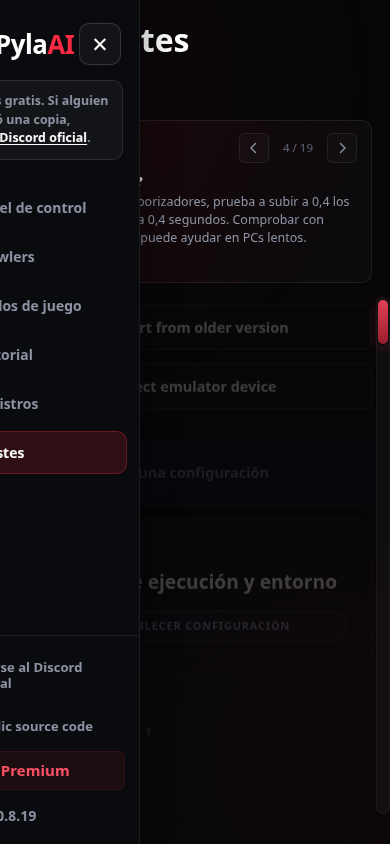
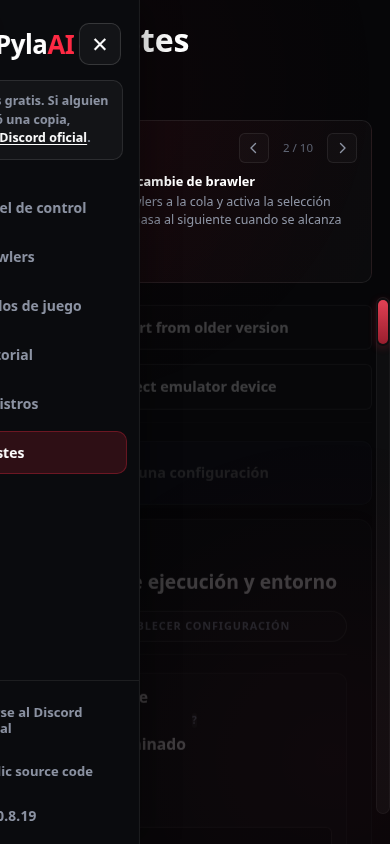
Retira anúncios de assinatura da edição local sem alterar permissões

Changed region(s): [[0.3692, 0.1848, 0.8923, 0.3081], [0.0, 0.7701, 0.2462, 0.9242], [0.3692, 0.8626, 0.4615, 0.8934]]

diff --git a/project/static/js/app.js b/project/static/js/app.js
@@ -42,19 +42,10 @@ const PYLA_TIPS = [
     { id: "low-fps", title: "Running below 5 FPS?", text: "Try raising any timers below 0.4 seconds to 0.4 in Settings → Timers. Less frequent checks can help on slower PCs.", view: "settings", setting: "wall_detection" },
     { id: "debug-view", title: "See what Pyla sees", text: "Enable Debug View in Settings to watch the frames Pyla is processing. It helps when you're figuring out why the bot is stuck or missing something.", view: "settings", setting: "debug_view" },
     { id: "webhook", title: "Get updates without watching", text: "Add a Webhook URL in Settings → Webhook, then choose notifications for stuck runs, completed targets, or every few matches or minutes.", view: "settings", setting: "webhook_url" },
-    { id: "unsupported-modes", title: "Pick a supported mode", text: "Solo Showdown and Duels aren't supported in the free edition. Check your playstyle's gamemodes before starting a run.", view: "playstyles" },
+    { id: "unsupported-modes", title: "Pick a supported mode", text: "Solo Showdown and Duels aren't supported in this build. Check your playstyle's gamemodes before starting a run.", view: "playstyles" },
     { id: "game-language", title: "Keep Brawl Stars in English", text: "Set Brawl Stars' language to English so Pyla can read the game correctly. You can still use any language for Pyla's interface." },
     { id: "mumu", title: "Try MuMu for better performance", text: "MuMu usually gives the best performance with Pyla. If your current emulator feels slow, it's worth trying." },
     { id: "ldplayer-gas", title: "Walking into the gas on LDPlayer?", text: "Try switching to MuMu if Pyla keeps moving into Showdown gas on LDPlayer." },
-    { id: "boost-premium", audience: "free", title: "Get Premium with a server boost", text: "Boosting the official Discord while the server is below Level 3 gives you Premium access while your boost remains active. Check Discord for current details.", link: "discord" },
-    { id: "early-access-pathfinding", audience: "free", title: "Find a way around obstacles", text: "Early Access v1.1.0 plans routes around walls and water, avoids poison gas, and looks for a reachable position when its destination is blocked.", link: "early-access" },
-    { id: "early-access-bush-camper", audience: "free", title: "Try Showdown Bush Camper", text: "Early Access v1.1.0 includes Showdown Bush Camper. It moves between bushes towards the centre, keeps moving while hiding, and retreats or defends itself when enemies approach. Check its supported gamemodes.", link: "early-access" },
-    { id: "early-access-emulator-test", audience: "free", title: "Find out what's causing lag", text: "Early Access v1.1.0 adds Test emulator delay on the dashboard. Measure emulator delay, capture FPS and bot processing time to see where a slowdown comes from.", link: "early-access" },
-    { id: "weekly-free-access", audience: "free", title: "Try Early Access free each week", text: "Try Early Access free for one day each week, with every Premium feature on the newest build. The day can change; check the official Discord for this week's announcement.", link: "discord" },
-    { id: "premium-discord", audience: "free", title: "Edit your queue from Discord", text: "Stable v1.0 Premium and Early Access include /add_to_queue, /remove_from_queue and /clear_queue, so you can edit your queue remotely while Pyla is stopped.", link: "pricing" },
-    { id: "premium-instances", audience: "free", title: "Run more than one account", text: "Run multiple emulator instances at once with Stable v1.0 Premium or Early Access, each with its own Pyla profile and queue.", link: "pricing" },
-    { id: "premium-aiming", audience: "free", title: "Try predictive aiming", text: "Stable v1.0 Standard and Premium, or Early Access, include Aimbot playstyles that lead moving targets.", link: "pricing" },
-    { id: "premium-api", audience: "free", title: "Sync your Brawl Stars stats", text: "With Stable v1.0 Premium or Early Access, add your Player Tag to sync trophies and win streaks through the Brawl Stars API. Use Push All to queue brawlers below your target.", link: "pricing" },
 ];
 const BRAWLER_RARITIES = {
     "Common": { order: 1, color: "#b8bec9" },
@@ -552,13 +543,12 @@ function renderDashboard() {
                 </section>
             </div>
 
-            <section class="panel profile-switcher-card premium-profile-preview">
+            <section class="panel profile-switcher-card">
                 <div class="profile-switcher-heading">
                     <div class="profile-heading-copy">
                         <p class="eyebrow">Profiles</p>
-                        <div class="profile-title-row"><h3 class="panel-title">One setup today, more with Premium</h3><span class="premium-badge-inline">Premium</span></div>
+                        <div class="profile-title-row"><h3 class="panel-title">Local profile</h3></div>
                     </div>
-                    <a class="btn btn-sm profile-add-btn premium-cta" href="https://pyla-ai.angelfirela.dev/premium" target="_blank" rel="noreferrer">Explore Premium</a>
                 </div>
                 <div class="profile-list premium-profile-list">
                     <div class="profile-entry is-active">
@@ -568,12 +558,6 @@ function renderDashboard() {
                         </div>
                         <span class="profile-active-label">Active</span>
                     </div>
-                    <button class="profile-entry premium-profile-locked premium-locked-action" type="button">
-                        <div class="profile-entry-main"><span class="profile-entry-name">Second emulator profile</span><span class="profile-entry-details">Separate queue, settings, history and runtime</span></div><span class="premium-profile-lock">Premium</span>
-                    </button>
-                    <button class="profile-entry premium-profile-locked premium-locked-action" type="button">
-                        <div class="profile-entry-main"><span class="profile-entry-name">Additional profile</span><span class="profile-entry-details">Run independent account configurations</span></div><span class="premium-profile-lock">Premium</span>
-                    </button>
                 </div>
             </section>
         </div>`;
@@ -670,9 +654,9 @@ function formatSettingValue(field, value) {
 function getPlayerPillState() {
     if (!state.bootstrap?.auth?.premium) {
         return {
-            className: "premium-locked",
-            title: "Premium Required",
-            detail: "Get premium to sync live stats from Brawl Stars API.",
+            className: "",
+            title: "Manual mode",
+            detail: "Enter queue values locally. Live player sync is not included in this build.",
         };
     }
 
@@ -732,7 +716,7 @@ function renderQueue() {
     const dynamicSortsLocked = !state.bootstrap?.auth?.premium;
     const targetHelp = `<span class="tooltip-anchor push-all-help" data-tooltip="Change this amount by editing Default Trophy Target in Settings." aria-label="How to change the Push All target">?</span>`;
     const pushAllButton = !state.bootstrap?.auth?.premium
-        ? `<div class="push-all-control"><button id="pushAllQueueLockedBtn" class="btn btn-locked premium-locked-action" type="button">${iconMarkup("queue")} Push All to ${defaultTarget} <span class="premium-lock-icon">🔒</span></button>${targetHelp}</div>`
+        ? ""
         : hasValidPlayerInfo
             ? `<div class="push-all-control"><button id="pushAllQueueBtn" class="btn" type="button">${iconMarkup("queue")} Push All to ${defaultTarget}</button>${targetHelp}</div>`
             : "";
@@ -761,10 +745,10 @@ function renderQueue() {
                             <input id="brawlerSearch" type="search" placeholder="Search by brawler name" value="${escapeHtml(state.brawlerSearch)}">
                         </label>
                         ${pushAllButton}
-                        <label class="input-group ${!state.bootstrap?.auth?.premium ? "disabled-premium" : ""}">
+                        ${state.bootstrap?.auth?.premium ? `                        <label class="input-group ${!state.bootstrap?.auth?.premium ? "disabled-premium" : ""}">
                             <span>Player Tag ${!state.bootstrap?.auth?.premium ? `<span class="premium-badge">Premium</span>` : ""}</span>
                             <input id="playerTagInput" type="text" placeholder="${!state.bootstrap?.auth?.premium ? "Locked - Premium Only" : "#PLAYER"}" value="${!state.bootstrap?.auth?.premium ? "" : escapeHtml(formatPlayerTagInput(state.bootstrap.settings.general.player_tag || ""))}" ${!state.bootstrap?.auth?.premium ? "disabled" : ""}>
-                        </label>
+                        </label>` : ""}
                     </div>
                     <div class="queue-toolbar-bottom">
                         <div class="toolbar-actions brawler-sort-actions">
@@ -774,9 +758,9 @@ function renderQueue() {
                                     <select id="brawlerSortSelect">
                                         <option value="alphabetical" ${state.brawlerSort === "alphabetical" ? "selected" : ""}>By name</option>
                                         <option value="rarity" ${state.brawlerSort === "rarity" ? "selected" : ""}>By rarity</option>
-                                        <option value="trophies" ${state.brawlerSort === "trophies" ? "selected" : ""}>${dynamicSortsLocked ? "🔒 " : ""}By trophies</option>
-                                        <option value="win_streak" ${state.brawlerSort === "win_streak" ? "selected" : ""}>${dynamicSortsLocked ? "🔒 " : ""}By win streak</option>
-                                        <option value="power_level" ${state.brawlerSort === "power_level" ? "selected" : ""}>${dynamicSortsLocked ? "🔒 " : ""}By power level</option>
+                                        ${dynamicSortsLocked ? "" : `<option value="trophies" ${state.brawlerSort === "trophies" ? "selected" : ""}>${dynamicSortsLocked ? "🔒 " : ""}By trophies</option>`}
+                                        ${dynamicSortsLocked ? "" : `<option value="win_streak" ${state.brawlerSort === "win_streak" ? "selected" : ""}>${dynamicSortsLocked ? "🔒 " : ""}By win streak</option>`}
+                                        ${dynamicSortsLocked ? "" : `<option value="power_level" ${state.brawlerSort === "power_level" ? "selected" : ""}>${dynamicSortsLocked ? "🔒 " : ""}By power level</option>`}
                                     </select>
                                     <button id="brawlerSortDirectionBtn" class="sort-direction-btn" type="button" title="${state.brawlerSortDirection === "asc" ? "Ascending — click for descending" : "Descending — click for ascending"}" aria-label="${state.brawlerSortDirection === "asc" ? "Sort descending" : "Sort ascending"}">
                                         ${state.brawlerSortDirection === "asc" ? "↑" : "↓"}
@@ -1889,6 +1873,9 @@ function renderSettingField(section, field, value) {
 }
 
 function shouldRenderSettingField(section, field) {
+    if (!state.bootstrap?.auth?.premium && ["player_tag", "advanced_debug_visuals", "recover_when_wrong_brawler_used"].includes(field.key)) {
+        return false;
+    }
     if (!field.visibleIf) {
         return true;
     }
@@ -3302,28 +3289,7 @@ function cssEscape(value) {
 
 
 function showPremiumModal() {
-    let modal = document.getElementById("premiumFeatureModal");
-    if (!modal) {
-        modal = document.createElement("div");
-        modal.id = "premiumFeatureModal";
-        modal.className = "modal-overlay";
-        modal.innerHTML = `
-            <div class="modal">
-                <div class="modal-header">
-                    <p class="eyebrow premium-copy">Premium Feature</p>
-                    <h3>Unlock more automation</h3>
-                    <p>Profiles, live player data, Push All and selected advanced controls are available in Pyla Premium. The public edition remains free and open-source.</p>
-                </div>
-                <div class="premium-modal-actions">
-                    <a class="btn btn-primary w-full premium-cta" href="https://pyla-ai.angelfirela.dev/premium" target="_blank" rel="noreferrer">Explore Premium</a>
-                    <button id="closePremiumModalBtn" class="btn w-full" type="button">Maybe later</button>
-                </div>
-            </div>`;
-        document.body.appendChild(modal);
-        document.getElementById("closePremiumModalBtn")?.addEventListener("click", () => modal.classList.add("hidden"));
-        modal.addEventListener("click", (event) => { if (event.target === modal) modal.classList.add("hidden"); });
-    }
-    modal.classList.remove("hidden");
+    showToast("This feature is not included in this local build.", "info");
 }
 
 async function refreshLogs() {

diff --git a/project/templates/index.html b/project/templates/index.html
@@ -28,7 +28,6 @@
                 <div class="sidebar-links" aria-label="PylaAI links">
                     <a id="sidebarDiscordLink" class="sidebar-link" href="#" target="_blank" rel="noreferrer" data-tooltip="Open the official Discord"><img src="/api/assets/support/discord_logo.png" alt=""><span>Join the Official Discord</span></a>
                     <a class="sidebar-link" href="https://github.com/PylaAI/PylaAI" target="_blank" rel="noreferrer" data-tooltip="Source code on GitHub"><img src="/api/assets/support/github.svg" alt=""><span>Public source code</span></a>
-                    <a id="sidebarPremiumLink" class="sidebar-link premium-link premium-cta" href="https://pyla-ai.angelfirela.dev/premium" target="_blank" rel="noreferrer" data-tooltip="Premium features"><span>Explore Premium</span></a>
                 </div>
                 <div id="sidebarVersion" class="sidebar-version">PylaAI Public</div>
             </div>

diff --git a/project/scripts/browser_audit.py b/project/scripts/browser_audit.py
@@ -25,6 +25,7 @@ with sync_playwright() as p:
     for view in ('dashboard','queue','playstyles','history','logs','settings'):
         page.locator(f'.nav-item[data-view="{view}"]').click()
         expect(page.locator(f'#view-{view}')).to_be_visible()
+        assert 'premium' not in page.locator('body').inner_text().lower()
         checks.append('navigation:'+view)
         page.screenshot(path=str(out/(view+'.png')),full_page=True)
     selector='input[data-setting-section="general"][data-setting-key="run_for_minutes"]'
@@ -51,13 +52,20 @@ with sync_playwright() as p:
     # Use the actual protected API to remove only the entry created by this check.
     response=page.evaluate("""async(name) => fetch('/api/queue/'+encodeURIComponent(name),{method:'DELETE',headers:{'X-Pyla-UI-Token':document.querySelector('meta[name="pyla-ui-token"]').content}}).then(r=>r.status)""",selected)
     assert response==200
+    page.evaluate('refreshRunningQueue()')
     page.locator('.nav-item[data-view="playstyles"]').click()
     assert page.locator('#playstyleLibrary').inner_text().strip()
     checks.append('playstyles:library')
     page.locator('.nav-item[data-view="dashboard"]').click()
-    page.locator('.premium-locked-action:visible').first.click()
-    expect(page.locator('#premiumFeatureModal')).to_be_visible()
-    checks.append('premium:existing-modal-kept')
+    assert page.locator('#premiumFeatureModal').count()==0
+    assert page.locator('a[href*="/premium"]').count()==0
+    assert page.evaluate('state.bootstrap.auth.premium') is False
+    assert page.evaluate('state.bootstrap.queue.length')==0
+    checks.append('local-edition:no-upsell-entitlement-unchanged')
+    for _ in range(page.evaluate('state.tips.length')):
+        assert 'premium' not in page.locator('#tipContent').inner_text().lower()
+        page.locator('#nextTipBtn').click()
+    checks.append('tips:no-subscription-promotion')
     page.reload(wait_until='domcontentloaded')
     page.wait_for_function('Boolean(state.bootstrap)')
     with page.expect_navigation(wait_until='domcontentloaded'):

diff --git a/project/scripts/smoke_windows_exe.py b/project/scripts/smoke_windows_exe.py
@@ -37,6 +37,10 @@ with log.open('w',encoding='utf-8') as output:
             if url:break
             time.sleep(.3)
         if not url:raise RuntimeError('Executable did not serve the UI within 90 seconds')
+        assert 'sidebarPremiumLink' not in html
+        with opener.open(url+'/static/js/app.js',timeout=10) as response:frontend=response.read().decode()
+        assert 'One setup today, more with Premium' not in frontend
+        assert 'Unlock more automation' not in frontend
         token=re.search(r'name="pyla-ui-token" content="([^"]+)"',html).group(1)
         request=urllib.request.Request(url+'/api/bootstrap',headers={'X-Pyla-UI-Token':token})
         with opener.open(request,timeout=10) as response:payload=json.load(response)
@@ -45,7 +49,7 @@ with log.open('w',encoding='utf-8') as output:
         request=urllib.request.Request(url+'/api/settings/general',data=b'{"max_fps":0}',headers={'X-Pyla-UI-Token':token,'Content-Type':'application/json'},method='PUT')
         try:opener.open(request,timeout=10);raise AssertionError('Invalid FPS was accepted')
         except urllib.error.HTTPError as error:assert error.code==400
-        print(json.dumps({'exe_started':True,'ui_html':True,'bootstrap':True,'invalid_fps_rejected':True,'game_automation_tested':False}))
+        print(json.dumps({'exe_started':True,'ui_html':True,'bootstrap':True,'invalid_fps_rejected':True,'promotion_links_removed':True,'game_automation_tested':False}))
     finally:
         process.terminate()
         try:process.wait(timeout=10)

diff --git a/project/docs/FUNCIONALIDADES.md b/project/docs/FUNCIONALIDADES.md
@@ -8,7 +8,7 @@
 | Histórico | CSV, resumo, sessões, gráficos, filtros por data/brawler e detalhes | Tela carregada e datas inválidas rejeitadas. Nenhuma partida real gerada; gráficos com histórico real e todas as combinações de filtros permanecem pendentes. |
 | Logs | Visualização, atualização e limpeza de buffer | API e tela carregadas; não é benchmark de sessões longas. |
 | Configurações | Geral, combate, temporização, depuração e webhooks; autosave, reset, importação de instalação antiga | Cinco seções e resets via API; autosave com recarga no navegador; validação numérica e sigilo das credenciais testados. Migração de cada versão antiga não testada. |
-| Navegação e visual | Seis telas, ícones, tema, tooltips, barras de rolagem, dicas, carrossel, menu responsivo | Seis telas e menu móvel exercitados; sem erro JavaScript e sem falha de assets locais na execução registrada. CSS/HTML/JS preservados. Nem cada animação, tooltip ou gesto recebeu asserção individual. |
+| Navegação e visual | Seis telas, ícones, tema, tooltips, barras de rolagem, dicas, carrossel, menu responsivo | Seis telas e menu móvel exercitados; sem erro JavaScript e sem falha de assets locais na execução registrada. Tema e CSS preservados; HTML/JS ajustados na R3 para retirar promoções. Nem cada animação, tooltip ou gesto recebeu asserção individual. |
 | Idiomas | Inglês, espanhol, francês, coreano e russo | Mudança para espanhol e recarga testadas. Qualidade de todas as traduções não revisada; português não implementado. |
 | Desktop | Janela pywebview, ícone, tamanho, console e fallback para navegador | Código preservado e build configurado. A abertura gráfica da janela no Windows não integra os testes Linux; consultar relatório Windows para smoke test headless. |
 | ADB/scrcpy | Descoberta de emuladores, scan profundo, captura, toque e reinício do jogo | Código presente. Nenhum dispositivo foi conectado durante esta auditoria. |
@@ -17,6 +17,6 @@
 | Depuração | Preview por memória compartilhada, overlays, clipes e logs de partidas | Implementação presente; captura/visualização/clipes exigem execução real e não foram testados. |
 | Discord | Bot opcional, autorização por ID, comandos de controle e screenshot | Negação sem ID autorizado testada com interação simulada. Comandos reais, conexão e permissões do bot não testados. |
 | Telegram/webhook | Notificações de status/evento e imagem | Credenciais mascaradas/preservadas/limpas na API; entrega real não testada, sem credenciais. |
-| Premium | Elementos promocionais, links externos, recursos visuais bloqueados | Modal existente verificado; estado premium continua falso. Multiprofile, estatísticas remotas e outros recursos comerciais ausentes não foram implementados nem desbloqueados. |
+| Premium | Elementos promocionais, links externos, recursos visuais bloqueados | Na R3, anúncios, modal de upgrade e cartões bloqueados foram removidos da interface; estado premium continua falso. Multiprofile, estatísticas remotas e outros recursos comerciais ausentes não foram implementados nem desbloqueados. |
 
 Os nomes de todas as rotas locais estão em `ROTAS-LOCAIS.json`. O inventário de funções/classes está em `MODULOS.md`/`INVENTARIO.json`. A presença de código não é apresentada como comprovação de funcionamento.

diff --git a/project/docs/TESTES.md b/project/docs/TESTES.md
@@ -7,7 +7,7 @@
 - 47 casos cobrem rotas, CRUD/persistência de fila, configurações/reset, validações, proteção de host/origem/token, mascaramento de credenciais, estilos, datas, controle de estado e autorização Discord. O trabalhador de automação e a interação Discord são simulados nos testes de controle/autorização; isso não comprova integração externa.
 - Seis regressões adicionais reproduziram importações de estilos inválidos; todos passaram após a correção (baseline adicional em `audit-evidence/import-baseline.*`).
 - Quatro casos executam inferência real em CPU nos três modelos ONNX distribuídos e o pipeline Detect em dois desses modelos. São entradas sintéticas, não partidas nem avaliação de acurácia.
-- Navegador Chromium real: **12 verificações concluídas**, 0 erros JavaScript capturados e 0 falhas HTTP dos assets locais. Incluem seis telas, inclusão de fila pelo botão, autosave com recarga, biblioteca, modal premium preservado, espanhol e menu móvel. As requisições de Google Fonts foram bloqueadas intencionalmente, para verificar a operação com fallback; não é prova de aparência tipográfica idêntica com/sem rede.
+- Navegador Chromium real: **13 verificações concluídas**, 0 erros JavaScript capturados e 0 falhas HTTP dos assets locais. Incluem seis telas, inclusão de fila pelo botão, autosave com recarga, biblioteca, ausência de pedidos de assinatura e carrossel de dicas, espanhol e menu móvel. As requisições de Google Fonts foram bloqueadas intencionalmente, para verificar a operação com fallback; não é prova de aparência tipográfica idêntica com/sem rede.
 - Capturas das seis telas e do modo móvel em `audit-evidence/browser/`. CSS, HTML e JavaScript originais preservados; os testes não cobrem individualmente cada botão, animação ou gesto.
 - Aviso de depreciação `audioop` do discord.py no Python 3.11, sem falha.
 
@@ -16,3 +16,9 @@
 Os scripts e o workflow preparam compilação nativa no Windows e smoke test real do .exe headless. O resultado será registrado separadamente em `TESTES-WINDOWS-CI.md`/relatórios da execução no GitHub. Até existir esse relatório, não se declara compilação nem execução Windows comprovadas nesta etapa.
 
 Permanecem sem validação: janela pywebview gráfica, emulador/aparelho, ADB/scrcpy real, jogo/partidas, GPU CUDA/DirectML, notificações Discord/Telegram/webhook com credenciais, precisão dos modelos e estabilidade sob carga prolongada. Nenhuma credencial externa foi solicitada ou inventada.
+
+## Revisão R3
+
+51 testes automatizados passaram novamente em Linux. O teste do navegador agora verifica a ausência de anúncios de Premium nas seis telas e em todas as dicas, além de confirmar que a assinatura continua falsa e a fila vazia continua vazia. O teste de modal antigo da R2 foi substituído por essas verificações. O relatório do build Windows desta revisão deve ser consultado separadamente.
+
+A verificação da R3 concluiu 13 casos de navegador, sem erros JavaScript e sem assets locais ausentes. Nenhum teste de navegação ativa o estado premium; ele é explicitamente verificado como falso.

diff --git a/project/docs/ALTERACOES.md b/project/docs/ALTERACOES.md
@@ -10,6 +10,10 @@ As fontes públicas verificadas foram preservadas em `/workspace/pyla-analysis/r
 6. `utils.py`/`webui/services.py`: importação de estilos valida que o cabeçalho é um objeto com campos textuais/listas de nomes e que existe código. Cabeçalhos JSON de tipos inadequados deixam de contaminar a biblioteca e quebrar o bootstrap. Se um estilo inválido já existir em disco, o carregamento degrada para metadados vazios, sem quebrar a API.
 7. Scripts de build nativo Windows, execução, inventário, smoke test do executável e auditoria do navegador; suíte de regressão e documentação foram adicionados.
 
-Os arquivos da interface (`templates/index.html`, CSS e os três arquivos JavaScript), os modelos e os estilos existentes não foram alterados. Não foram removidos bloqueios premium ou controles de acesso. A dependência de autorizações legítimas de Discord, Telegram, ADB e jogo permanece.
+Até a revisão R2, os arquivos da interface não foram alterados. Na R3, HTML e app.js retiram anúncios, botões de upgrade, cartões demonstrativos de outros perfis e campos indisponíveis da edição local. O aviso de recurso ausente passa a ser informativo, sem pedir assinatura. CSS, traduções, modelos e estilos existentes são preservados. Não foram removidos bloqueios premium ou controles de acesso. A dependência de autorizações legítimas de Discord, Telegram, ADB e jogo permanece.
 
 Os 14 casos de regressão que falhavam na primeira execução passaram depois dessas correções. A inspeção adicional da importação reproduziu outros seis casos que falhavam; os seis também passaram após a correção. A suíte final tem 51 casos. Isso representa os casos testados, não a garantia de ausência de defeitos em toda a aplicação.
+
+## Revisão R3 — interface local sem anúncios
+
+Removidos: link lateral Explore Premium, cartões de perfis bloqueados, dicas comerciais, botão Push All bloqueado, campo de player tag sem backend e opções de ordenação por dados remotos indisponíveis. As funções existentes da fila, configurações e execução continuam. O estado de assinatura permanece `premium=False`; não foram ativados recursos privados nem alteradas autorizações. A mensagem sobre modos não suportados descreve a limitação desta build, sem anunciar um plano pago.

diff --git a/project/README-AUDITORIA.md b/project/README-AUDITORIA.md
@@ -24,7 +24,7 @@ Use `--desktop` para a janela pywebview ou `--web` para o navegador. A janela de
 ./scripts/build-windows.ps1
 ```
 
-O script usa `pyla.spec`, instala as dependências declaradas, compila com PyInstaller e monta `dist/pyla-v0.8.19-auditado-r2-windows.zip`. Ele substitui apenas suas próprias saídas de build. O runtime padrão de inferência declarado pelo projeto é DirectML com CPU disponível; CUDA não é instalado automaticamente por esse script. `setup.py` original permanece para referência, mas não é necessário para essa compilação.
+O script usa `pyla.spec`, instala as dependências declaradas, compila com PyInstaller e monta `dist/pyla-v0.8.19-auditado-r3-windows.zip`. Ele substitui apenas suas próprias saídas de build. O runtime padrão de inferência declarado pelo projeto é DirectML com CPU disponível; CUDA não é instalado automaticamente por esse script. `setup.py` original permanece para referência, mas não é necessário para essa compilação.
 
 ## Auditar em Linux
 

diff --git a/project/docs/TESTES-WINDOWS-CI.md b/project/docs/TESTES-WINDOWS-CI.md
@@ -1,0 +1,8 @@
+# Testes nativos Windows no GitHub Actions
+
+Executados nesta execucao: https://github.com/Eduzimps/volt-x-backend/actions/runs/42035770309
+
+- Dependencias Windows instaladas e suite pytest concluida sem falhas; contagens no JUnit audit-evidence/windows-tests.xml.
+- Compilacao nativa PyInstaller concluida no Windows x64 com Python 3.11.
+- O executavel compilado foi iniciado de verdade em modo headless: HTML e bootstrap locais responderam; estado publico de licenciamento preservado; FPS zero rejeitado com HTTP 400.
+- Nao foram testados janela grafica pywebview, GPU, Android/ADB/scrcpy, partidas ou integracoes externas autenticadas.

diff --git a/project/docs/ESTRUTURA.md b/project/docs/ESTRUTURA.md
@@ -34,6 +34,7 @@ docs/
   MODELOS-SHA256.json
   MODULOS.md
   ROTAS-LOCAIS.json
+  TESTES-WINDOWS-CI.md
   TESTES.md
 entity_model.py
 images/
